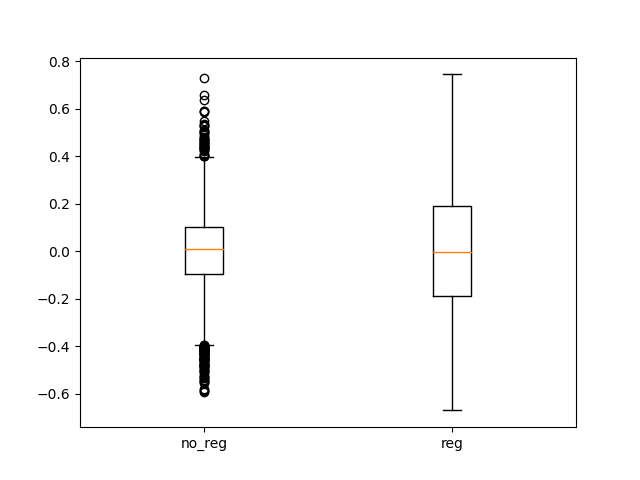
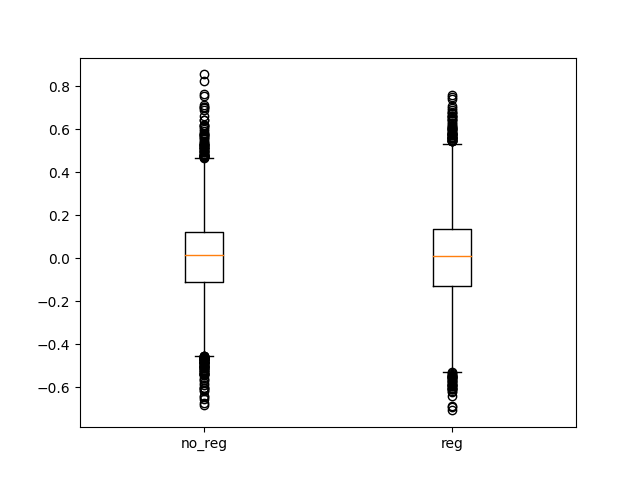
Clearly regularization and early stop work

diff --git a/Homework/H03/H03.2.py b/Homework/H03/H03.2.py
@@ -4,6 +4,8 @@ from sklearn.neural_network import MLPClassifier, MLPRegressor
 from sklearn.model_selection import StratifiedKFold, KFold, cross_val_predict
 from sklearn.metrics import confusion_matrix
 import matplotlib.pyplot as plt
+import numpy as np
+from sklearn.utils.validation import column_or_1d
 
 
 def loadDataFrame(file_name, flag):
@@ -17,6 +19,7 @@ def loadDataFrame(file_name, flag):
 
 
 def splitFeatureLabel(df):
+    # Create feature and label lists
     df_features = [x[:-1] for x in df]
     df_labels = [x[-1] for x in df]
 
@@ -29,8 +32,8 @@ def predict(alpha, early_stopping, df_features, df_labels, cv, MLP):
         activation = 'relu',
         alpha = alpha,
         early_stopping = early_stopping,
-        random_state = 0) # CAN WE DO THIS ?
-            
+        max_iter=2500)
+             
     return cross_val_predict(clf, df_features, df_labels, cv = cv)
 
 
@@ -42,36 +45,41 @@ def computeConfusionMatrix():
         print("FN: " + str(fn))
         print("TP: " + str(tp))
         print("FP: " + str(fp))
+        print("------------------------")
+
 
     cv1 = StratifiedKFold(n_splits = 5, shuffle = True, random_state = 0)
-
+    # Load DF
     df1 = loadDataFrame("breast.w.arff", True)
     df1_features, df1_labels = splitFeatureLabel(df1)
-
-    pred_no_early_stopping = predict(54.5, False, df1_features, df1_labels, cv1, MLPClassifier)
+    # No Early Stop
+    pred_no_early_stopping = predict(0.5, False, df1_features, df1_labels, cv1, MLPClassifier)
     print_confusion_matrix(df1_labels, pred_no_early_stopping)
-    print("------------------------")
-    pred_early_stopping = predict(134.0, True, df1_features, df1_labels, cv1, MLPClassifier)
+    # Early Stop
+    pred_early_stopping = predict(0.5, True, df1_features, df1_labels, cv1, MLPClassifier)
     print_confusion_matrix(df1_labels, pred_early_stopping)
 
 
 def computeBoxPlot():
 
     cv2 = KFold(n_splits = 5, shuffle = True, random_state = 0)
+    # Load DF
     df2 = loadDataFrame("kin8nm.arff", False)
     df2_features, df2_labels = splitFeatureLabel(df2)
-
+    # No regularization
     pred_no_reg = predict(0,False, df2_features, df2_labels, cv2, MLPRegressor)
     residuals_no_reg = [df2_labels[i] - pred_no_reg[i] for i in range(len(pred_no_reg))]
-
-    pred_reg = predict(10, False, df2_features, df2_labels, cv2, MLPRegressor)
-    residuals_reg = [df2_labels[i] - pred_reg[i] for i in range(len(pred_reg))]                        
-
+    # Regularization
+    pred_reg = predict(0.0001, False, df2_features, df2_labels, cv2, MLPRegressor)
+    residuals_reg = [df2_labels[i] - pred_reg[i] for i in range(len(pred_reg))]                      
+    # Save Boxplot as image
     plt.boxplot([residuals_no_reg,residuals_reg], positions=[1, 2], labels=["no_reg","reg"])
     plt.savefig("megaBox.png")
 
 
 if __name__ == "__main__":
 
-    computeConfusionMatrix()
+    while(computeConfusionMatrix()):
+        pass
+
     computeBoxPlot()
